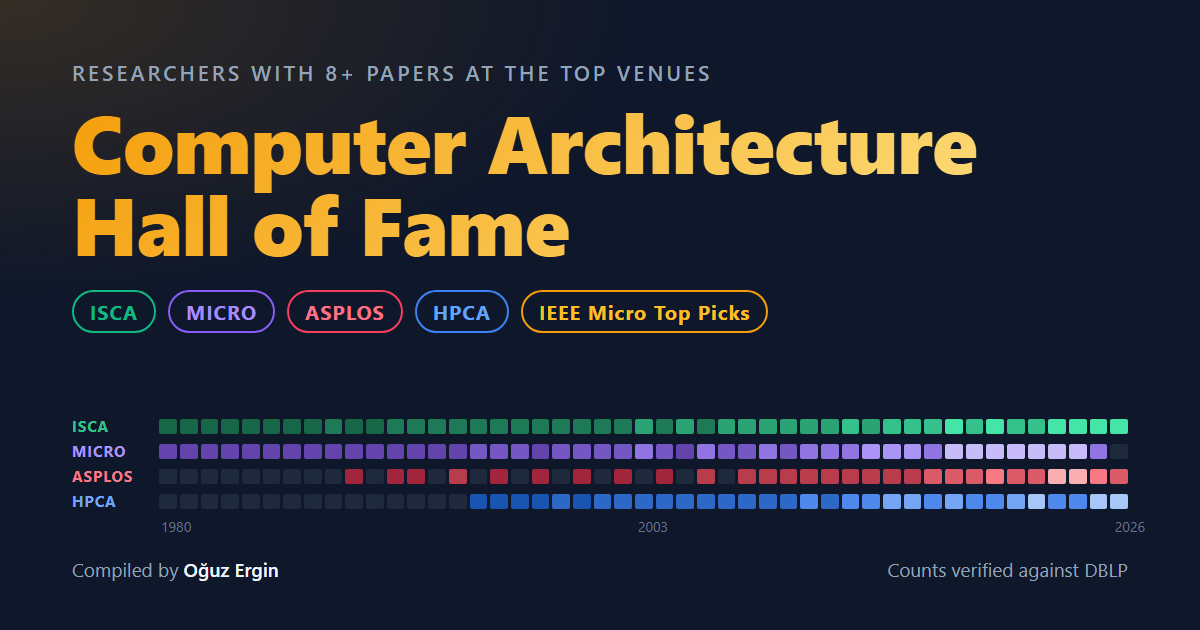
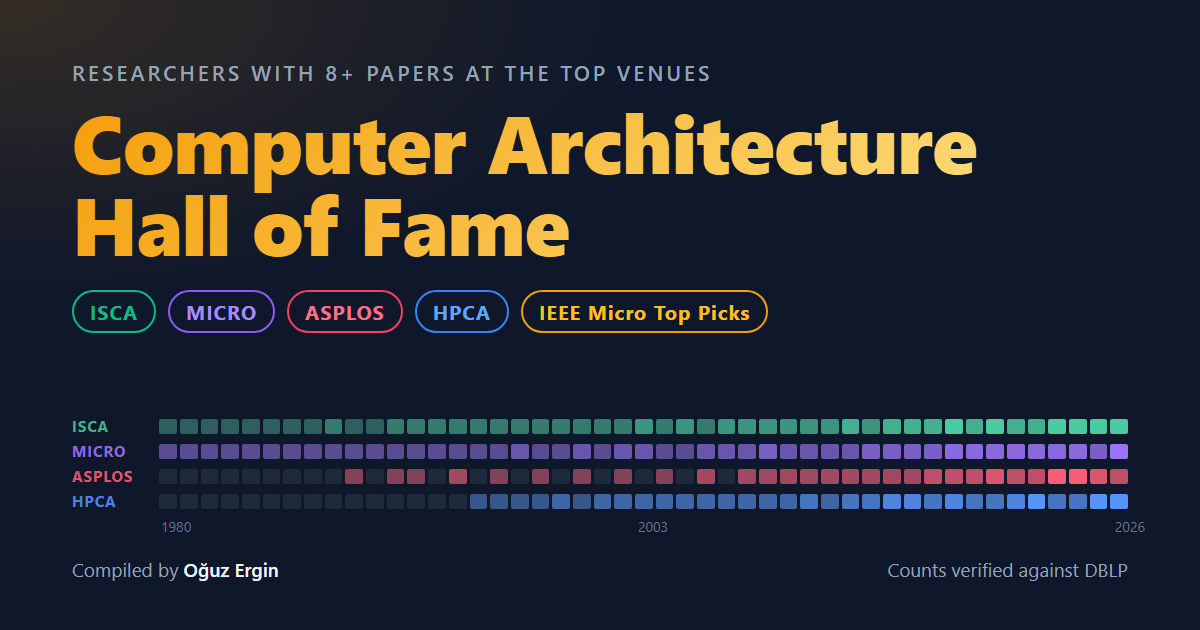
Heatmap colours: 5+ is the most vivid step
The first ramps climbed in lightness until blue, violet and rose ran out of
gamut, so the 5+ step turned pale and greyish. Each ramp now ends on the
venue's own accent colour and the lower steps mix it into the surface, so
lightness and saturation both rise with the count. Step 1 still clears the
surface at 2:1, cell text (pure white or black) stays at 4.5:1 or more, and
neighbouring steps differ by OKLab deltaE >= 0.05. The link-preview card uses
the same ramps.

Changed region(s): [[0.0617, 0.6635, 0.9558, 0.8143]]

diff --git a/index.html b/index.html
@@ -123,16 +123,19 @@
         .no-results { text-align: center !important; color: var(--text-muted); font-style: italic; padding: 1rem !important; }
 
         /* Heatmap colours: one hue per venue, five steps for 1, 2, 3, 4 and 5+ papers in a year.
-           Lightness rises monotonically and step 1 clears the surface at 2:1; steps 1-2 carry light
-           text, steps 3-5 dark text, every pair at least 4.5:1 (checked with the dataviz validator). */
+           Step 5+ is the venue's own accent (lightened a little where needed); lower steps mix it
+           into the surface, so lightness AND saturation both rise with the count and 5+ is the most
+           vivid. Step 1 clears the surface at 2:1, cell text (pure white or black) is >= 4.5:1, and
+           neighbouring steps differ by OKLab deltaE >= 0.05 (the numbers in the cells carry the value). */
         .h0 { color: transparent; }
-        .h1, .h2 { color: #f1f5f9; } .h3, .h4, .h5 { color: #0f172a; } .h5 { font-weight: 800; }
-        .h1 { background: #4d5a6d; } .h2 { background: #5f6d80; } .h3 { background: #7d8ca0; } .h4 { background: #98a7bc; } .h5 { background: #b8c7dd; }
-        .isca .h1 { background: #186648; } .isca .h2 { background: #1e7a56; } .isca .h3 { background: #2ba274; } .isca .h4 { background: #35c18b; } .isca .h5 { background: #44e5a6; }
-        .micro .h1 { background: #6244ac; } .micro .h2 { background: #7457c2; } .micro .h3 { background: #8f74e2; } .micro .h4 { background: #aa94f6; } .micro .h5 { background: #c7bcf9; }
-        .asplos .h1 { background: #a2263b; } .asplos .h2 { background: #b93c4d; } .asplos .h3 { background: #da5a68; } .asplos .h4 { background: #f77984; } .asplos .h5 { background: #faafb2; }
-        .hpca .h1 { background: #1954b1; } .hpca .h2 { background: #2e68c6; } .hpca .h3 { background: #4d88ea; } .hpca .h4 { background: #75a6f6; } .hpca .h5 { background: #a8c7f9; }
-        .toppicks .h1 { background: #794f14; } .toppicks .h2 { background: #91601b; } .toppicks .h3 { background: #ba7c25; } .toppicks .h4 { background: #de942e; } .toppicks .h5 { background: #fab765; }
+        .h1, .h2 { color: #ffffff; } .h3, .h4, .h5 { color: #000000; } .h5 { font-weight: 800; }
+        .micro .h3, .asplos .h3, .hpca .h3 { color: #ffffff; }
+        .h1 { background: #4c586a; } .h2 { background: #606c7e; } .h3 { background: #748193; } .h4 { background: #8b97aa; } .h5 { background: #a1aec1; }
+        .isca .h1 { background: #2d605d; } .isca .h2 { background: #347a6d; } .isca .h3 { background: #3b957e; } .isca .h4 { background: #42af8e; } .isca .h5 { background: #49ca9f; }
+        .micro .h1 { background: #594c93; } .micro .h2 { background: #6955ac; } .micro .h3 { background: #795fc4; } .micro .h4 { background: #8a69dd; } .micro .h5 { background: #9b73f7; }
+        .asplos .h1 { background: #844258; } .asplos .h2 { background: #a04960; } .asplos .h3 { background: #bc5068; } .asplos .h4 { background: #d8576f; } .asplos .h5 { background: #f65e78; }
+        .hpca .h1 { background: #36578c; } .hpca .h2 { background: #3e66a6; } .hpca .h3 { background: #4675c0; } .hpca .h4 { background: #4e84db; } .hpca .h5 { background: #5694f7; }
+        .toppicks .h1 { background: #625540; } .toppicks .h2 { background: #846c42; } .toppicks .h3 { background: #aa8445; } .toppicks .h4 { background: #d19d47; } .toppicks .h5 { background: #f8b74a; }
 
         /* Combined simple table */
         .simple-table { border-collapse: collapse; width: 100%; }

diff --git a/make_og_card.py b/make_og_card.py
@@ -22,12 +22,12 @@ D = json.loads(subprocess.check_output(["node", "-e",
     'process.stdout.write(JSON.stringify({hpca:D.hpca,micro:D.micro,isca:D.isca,asplos:D.asplos}))',
     os.path.join(HERE, "data.js")]).decode("utf-8"))
 
-# same ramps as the site's heatmaps (validated: monotone lightness, 2:1 against the surface)
+# same ramps as the site's heatmaps: 5+ is the venue accent, lower steps mix it into the surface
 RAMP = {
-    "isca":   ["#186648", "#1e7a56", "#2ba274", "#35c18b", "#44e5a6"],
-    "micro":  ["#6244ac", "#7457c2", "#8f74e2", "#aa94f6", "#c7bcf9"],
-    "asplos": ["#a2263b", "#b93c4d", "#da5a68", "#f77984", "#faafb2"],
-    "hpca":   ["#1954b1", "#2e68c6", "#4d88ea", "#75a6f6", "#a8c7f9"],
+    "isca":   ["#2d605d", "#347a6d", "#3b957e", "#42af8e", "#49ca9f"],
+    "micro":  ["#594c93", "#6955ac", "#795fc4", "#8a69dd", "#9b73f7"],
+    "asplos": ["#844258", "#a04960", "#bc5068", "#d8576f", "#f65e78"],
+    "hpca":   ["#36578c", "#3e66a6", "#4675c0", "#4e84db", "#5694f7"],
 }
 LABEL = {"isca": "ISCA", "micro": "MICRO", "asplos": "ASPLOS", "hpca": "HPCA"}
 Y0, Y1 = 1980, max(int(y) for v in RAMP for e in D[v] for y in e["y"])

diff --git a/CLAUDE.md b/CLAUDE.md
@@ -114,7 +114,7 @@ Kanıt dökümü: `dblp_sparql/changes_evidence.txt`. Kişi başı not: `audit.j
 
 ## Site düzeni (5 Eki 2026)
 - **Sıralama:** standart yarışma sıralaması (1, 1, 1, 4); berabere olanlar aynı sırayı ve madalyayı alır, numarada "=" imi var. Sıra her zaman bütün listeden hesaplanır (`ranker()`), arama ve kurum süzgeci kişinin gerçek sırasını değiştirmez. Combined'da # sütunu hangi sütuna göre sıralanırsa sıralansın Total sırasını gösterir.
-- **Isı haritası renkleri:** her konferansa kendi renginde beş basamak (1, 2, 3, 4, 5+). Ölçekler dataviz doğrulayıcısından geçti (açıklık tekdüze artıyor, 1. basamak zemine karşı en az 2:1, hücre yazısı her basamakta en az 4,5:1; 1-2 açık yazı, 3-5 koyu yazı). Renk değiştirilecekse aynı denetim yeniden koşulmalı.
+- **Isı haritası renkleri (5 Eki 2026'da yenilendi):** her konferansta 5+ basamağı konferansın kendi canlı rengi (gerekirse biraz açılmış), alt basamaklar o rengin zemine karıştırılmış tonları; sayı arttıkça renk hem açılıyor hem doyuyor. İlk sürümde açıklık 0,82'ye çıkınca mavi, mor ve pembede doygunluk düşüyor, 5+ grimsi görünüyordu (Oğuz fark etti). Ölçütler: 1. basamak zemine karşı en az 2:1, hücre yazısı saf beyaz ya da siyahla en az 4,5:1 (#f1f5f9/#0f172a orta tonlarda yetmiyor), komşu basamaklar OKLab ΔE en az 0,05 (doygunluk artarken ΔL 0,06 mavi/mor/pembede sağlanamıyor; hücredeki sayı değeri zaten veriyor). Arama betikleri oturum geçici klasöründeydi; değiştirilecekse aynı ölçütlerle yeniden hesaplanmalı.
 - **Masaüstü ısı haritası:** konferans sekmeleri son yıllardan açılır (`pinRight`), okur sola kaydırınca konumu korunur. Sıra, ad ve Total sabit (`fixSticky()`; sol kaydırmaları sütun genişliğinden ölçülür). Yıl başlığı tablonun kendi kaydırma kutusunda sabit kalır. Telefonda (768 px altı) yıl sütunları gizli, sabit sütunlar kapalı.
 - **Tarihler veriden gelir:** "Data as of" = `updates` içinde `site:true` işareti taşımayan ilk girdinin tarihi; alt bilgideki "Last updated" = ilk girdinin tarihi; kutulardaki bitiş yılı = o listedeki en son yıl. Yalnız görünümü değiştiren bir güncelleme notuna `site:true` eklenir.
 - **Paylaşım kartı:** `og-card.png` (1200x630) `python make_og_card.py` ile data.js'ten üretilir; alttaki şerit üyelerin yıllara göre makale yoğunluğu. Kartta kişi sayısı yok, eskimez; yine de büyük bir veri güncellemesinden sonra yeniden üretilebilir. Meta etiketleri şimdilik github.io adresini gösteriyor; comparch.oguzergin.net DNS kaydı Wix'e girilince `og:url`, `og:image` ve `twitter:image` yeni adrese çevrilmeli.
